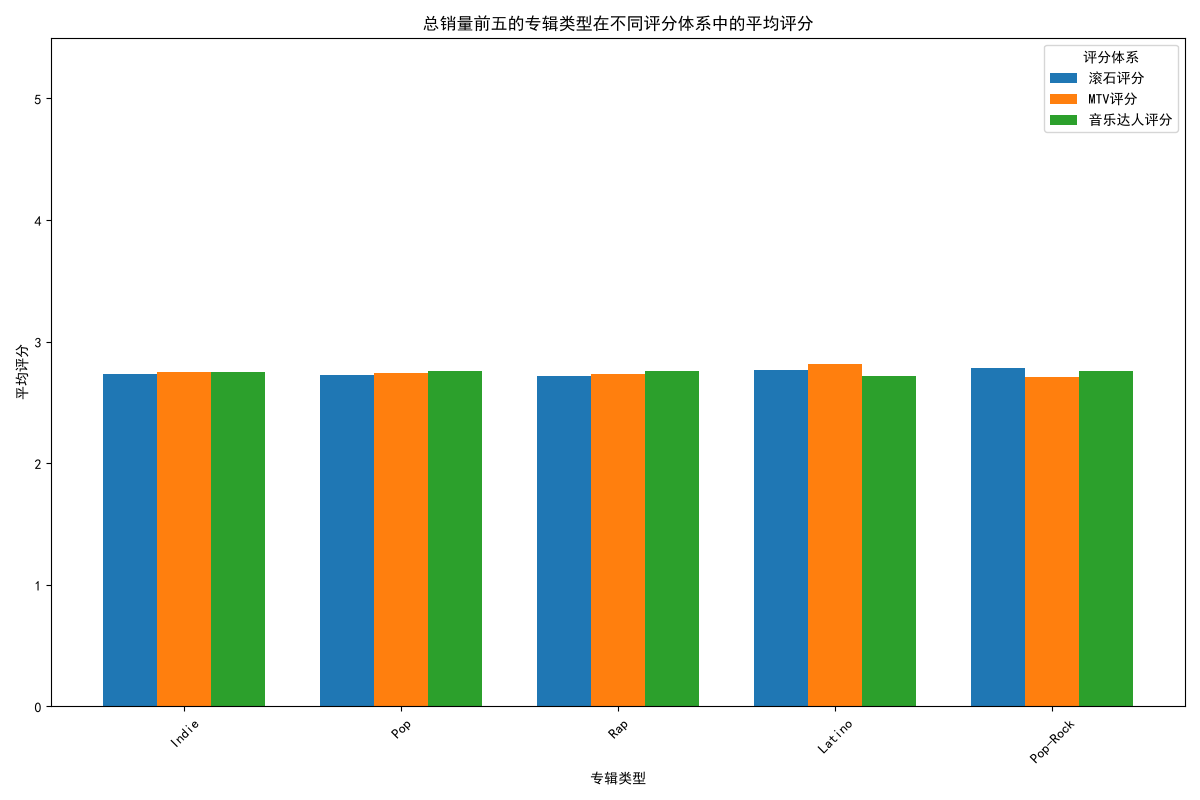
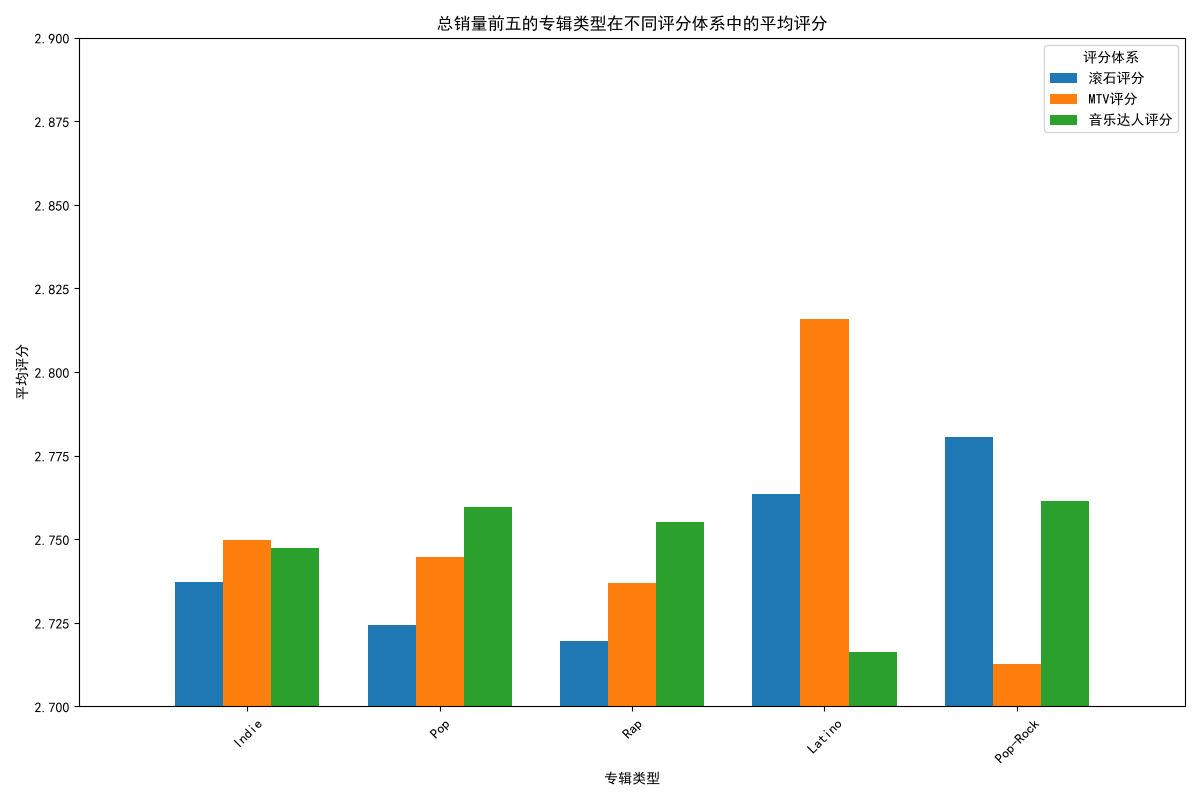
task5图表优化

diff --git a/数据分析+图表绘制.py b/数据分析+图表绘制.py
@@ -148,7 +148,19 @@ plt.xlabel('专辑类型')
 plt.ylabel('平均评分')
 plt.xticks(index + bar_width,top5_genres_names,rotation=45)
 plt.legend(title='评分体系')
-plt.ylim(0,5.5)#设置y轴范围
+plt.ylim(2.7,2.9)#设置y轴范围
+
+#底部折线0-2
+x_min,x_max = plt.xlim()
+plt.plot([x_min,x_max],[2,2],color='black',linewidth=1)
+plt.plot([x_min,x_min + 0.02*(x_max-x_min)],[2,2.03],color='black',linewidth=1)
+plt.plot([x_max - 0.02*(x_max-x_min),x_max],[2,2.03],color='black',linewidth=1)
+
+#顶部折线3-5
+plt.plot([x_min,x_max],[3,3],color='black',linewidth=1)
+plt.plot([x_min,x_min +0.02*(x_max-x_min)],[3,2.97],color='black',linewidth=1)
+plt.plot([x_max - 0.02*(x_max-x_min),x_max],[3,2.97],color='black',linewidth=1)
+
 plt.tight_layout()
 
 #保存-关闭